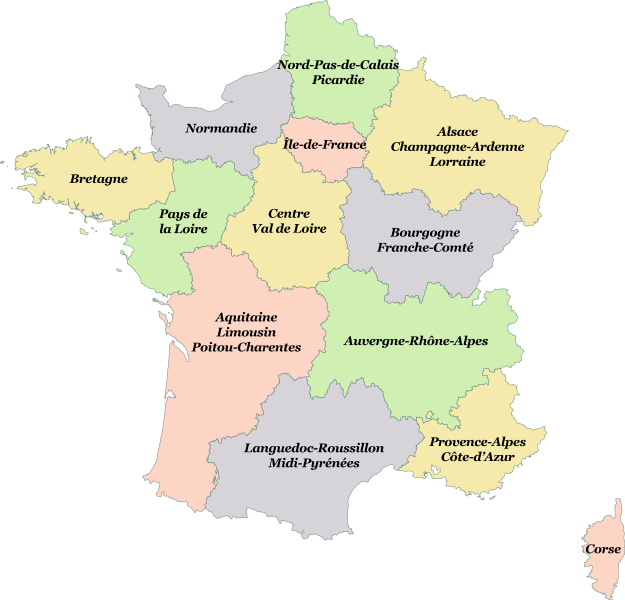
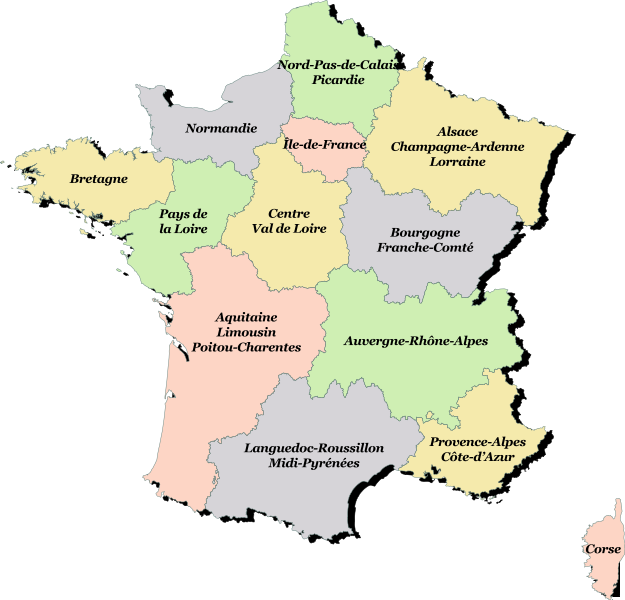
Ajout fond d'écran et ombrage de la carte. Les wiki test s'ouvrent en _blank

diff --git a/src/app/app.component.html b/src/app/app.component.html
@@ -1,19 +1,23 @@
-<h1 class="meteofrance"> Météo France </h1>
+<body class="ciel">
 
-<img src="../assets/France.png" alt="France" usemap="#image-map" class="france">
+  <h1 class="meteofrance"> Météo France </h1>
 
-<map name="image-map">
-  <area target="" alt="Bretagne" title="Bretagne" href="https://fr.wikipedia.org/wiki/Bretagne" coords="27,158,82,146,103,164,124,158,148,157,156,166,166,163,160,195,129,206,116,218,37,191" shape="poly">
-  <area target="" alt="Normandie" title="Normandie" href="https://fr.wikipedia.org/wiki/Normandie" coords="144,91,158,93,168,110,230,108,232,88,276,69,288,109,277,126,269,140,252,148,248,173,235,160,216,161,204,153,157,157" shape="poly">
-  <area target="" alt="Haut de France" title="Haut de France" href="https://fr.wikipedia.org/wiki/Nord-Pas-de-Calais" coords="325,4,291,15,285,61,299,75,296,112,352,118,364,131,371,108,386,102,393,79,393,50" shape="poly">
-  <area target="" alt="Grand Est" title="Grand Est" href="https://fr.wikipedia.org/wiki/Grand_Est" coords="422,59,411,69,402,72,391,106,377,110,368,139,369,148,365,165,377,178,386,192,412,187,423,190,431,204,458,209,471,191,496,193,516,207,524,223,537,217,550,148,564,129" shape="poly">
-  <area target="" alt="Île-de-France" title="Île-de-France" href="https://fr.wikipedia.org/wiki/Île-de-France" coords="291,116,283,127,286,147,300,163,302,170,319,170,325,179,343,178,345,169,361,165,363,138,350,122" shape="poly">
-  <area target="" alt="Val-de-loire" title="Val-de-loire" href="https://fr.wikipedia.org/wiki/Centre-Val_de_Loire" coords="280,138,255,150,258,166,253,172,254,195,244,209,228,218,224,242,232,253,246,250,270,288,312,286,325,276,332,266,344,262,341,233,336,220,338,206,348,190,322,180,304,171,288,154" shape="poly">
-  <area target="" alt="Pays-de-la-loire" title="Pays-de-la-loire" href="https://fr.wikipedia.org/wiki/Pays_de_la_Loire" coords="176,162,204,162,211,161,216,167,228,163,234,170,250,183,248,196,228,212,216,242,183,251,191,290,164,294,122,253,122,238,112,234,114,222,133,214,160,203,175,192" shape="poly">
-  <area target="" alt="Bourgogne" title="Bourgogne" href="https://fr.wikipedia.org/wiki/Bourgogne-Franche-Comté" coords="349,171,368,171,371,182,378,186,384,198,409,196,418,191,430,210,442,216,461,213,466,202,477,194,499,197,516,213,517,231,494,257,481,275,476,286,463,295,454,288,441,282,427,282,420,298,412,293,405,295,402,302,387,298,390,282,372,268,348,267,344,231,342,206,352,191" shape="poly">
-  <area target="" alt="Nouvelle Aquitaine" title="Nouvelle Aquitaine" href="https://fr.wikipedia.org/wiki/Nouvelle-Aquitaine" coords="188,258,220,245,231,258,244,258,267,294,312,289,324,305,320,324,320,347,309,360,304,372,295,377,284,370,260,398,256,413,246,433,207,441,205,461,212,466,215,484,204,509,157,494,156,481,145,478,171,342,151,302,191,298,194,278" shape="poly">
-  <area target="" alt="Auvergne" title="Auvergne" href="https://fr.wikipedia.org/wiki/Auvergne-Rhône-Alpes" coords="320,288,344,268,370,272,384,287,381,302,400,306,406,299,416,299,419,305,428,286,438,286,450,298,475,294,476,305,490,292,508,292,515,322,509,330,522,357,484,370,484,382,451,406,448,414,455,423,444,422,435,412,416,418,393,416,381,384,366,379,350,380,345,387,335,375,323,392,312,392,310,372,324,357,328,322,330,304" shape="poly">
-  <area target="" alt="Provence" title="Provence" href="https://fr.wikipedia.org/wiki/Provence-Alpes-Côte_d%27Azur" coords="489,373,501,369,508,383,515,383,519,394,512,418,544,426,540,450,500,487,467,494,440,482,401,468,415,456,423,437,418,420,435,420,451,430,460,427,453,412,472,394,485,385" shape="poly">
-  <area target="" alt="Occitanie" title="Occitanie" href="https://fr.wikipedia.org/wiki/Occitanie_(région_administrative)" coords="283,376,304,381,308,400,326,398,334,382,344,398,356,382,363,383,380,392,388,422,412,421,418,436,409,457,396,469,352,494,355,531,312,545,251,513,238,525,209,512,220,477,210,458,218,442,246,438,264,406" shape="poly">
-  <area target="" alt="Corse" title="Corse" href="https://fr.wikipedia.org/wiki/Corse" coords="619,499,608,511,580,534,590,593,616,599,624,555,624,525" shape="poly">
-</map>
+  <img src="../assets/France.png" alt="France" usemap="#image-map" class="france">
+
+  <map name="image-map">
+    <area target="" alt="Bretagne" title="Bretagne" href="https://fr.wikipedia.org/wiki/Bretagne" target="_blank" coords="27,158,82,146,103,164,124,158,148,157,156,166,166,163,160,195,129,206,116,218,37,191" shape="poly">
+    <area target="" alt="Normandie" title="Normandie" href="https://fr.wikipedia.org/wiki/Normandie" target="_blank" coords="144,91,158,93,168,110,230,108,232,88,276,69,288,109,277,126,269,140,252,148,248,173,235,160,216,161,204,153,157,157" shape="poly">
+    <area target="" alt="Haut de France" title="Haut de France" href="https://fr.wikipedia.org/wiki/Nord-Pas-de-Calais" target="_blank" coords="325,4,291,15,285,61,299,75,296,112,352,118,364,131,371,108,386,102,393,79,393,50" shape="poly">
+    <area target="" alt="Grand Est" title="Grand Est" href="https://fr.wikipedia.org/wiki/Grand_Est" target="_blank" coords="422,59,411,69,402,72,391,106,377,110,368,139,369,148,365,165,377,178,386,192,412,187,423,190,431,204,458,209,471,191,496,193,516,207,524,223,537,217,550,148,564,129" shape="poly">
+    <area target="" alt="Île-de-France" title="Île-de-France" href="https://fr.wikipedia.org/wiki/Île-de-France" target="_blank" coords="291,116,283,127,286,147,300,163,302,170,319,170,325,179,343,178,345,169,361,165,363,138,350,122" shape="poly">
+    <area target="" alt="Val-de-loire" title="Val-de-loire" href="https://fr.wikipedia.org/wiki/Centre-Val_de_Loire" target="_blank" coords="280,138,255,150,258,166,253,172,254,195,244,209,228,218,224,242,232,253,246,250,270,288,312,286,325,276,332,266,344,262,341,233,336,220,338,206,348,190,322,180,304,171,288,154" shape="poly">
+    <area target="" alt="Pays-de-la-loire" title="Pays-de-la-loire" href="https://fr.wikipedia.org/wiki/Pays_de_la_Loire" target="_blank" coords="176,162,204,162,211,161,216,167,228,163,234,170,250,183,248,196,228,212,216,242,183,251,191,290,164,294,122,253,122,238,112,234,114,222,133,214,160,203,175,192" shape="poly">
+    <area target="" alt="Bourgogne" title="Bourgogne" href="https://fr.wikipedia.org/wiki/Bourgogne-Franche-Comté" target="_blank" coords="349,171,368,171,371,182,378,186,384,198,409,196,418,191,430,210,442,216,461,213,466,202,477,194,499,197,516,213,517,231,494,257,481,275,476,286,463,295,454,288,441,282,427,282,420,298,412,293,405,295,402,302,387,298,390,282,372,268,348,267,344,231,342,206,352,191" shape="poly">
+    <area target="" alt="Nouvelle Aquitaine" title="Nouvelle Aquitaine" href="https://fr.wikipedia.org/wiki/Nouvelle-Aquitaine" target="_blank" coords="188,258,220,245,231,258,244,258,267,294,312,289,324,305,320,324,320,347,309,360,304,372,295,377,284,370,260,398,256,413,246,433,207,441,205,461,212,466,215,484,204,509,157,494,156,481,145,478,171,342,151,302,191,298,194,278" shape="poly">
+    <area target="" alt="Auvergne" title="Auvergne" href="https://fr.wikipedia.org/wiki/Auvergne-Rhône-Alpes" target="_blank" coords="320,288,344,268,370,272,384,287,381,302,400,306,406,299,416,299,419,305,428,286,438,286,450,298,475,294,476,305,490,292,508,292,515,322,509,330,522,357,484,370,484,382,451,406,448,414,455,423,444,422,435,412,416,418,393,416,381,384,366,379,350,380,345,387,335,375,323,392,312,392,310,372,324,357,328,322,330,304" shape="poly">
+    <area target="" alt="Provence" title="Provence" href="https://fr.wikipedia.org/wiki/Provence-Alpes-Côte_d%27Azur" target="_blank" coords="489,373,501,369,508,383,515,383,519,394,512,418,544,426,540,450,500,487,467,494,440,482,401,468,415,456,423,437,418,420,435,420,451,430,460,427,453,412,472,394,485,385" shape="poly">
+    <area target="" alt="Occitanie" title="Occitanie" href="https://fr.wikipedia.org/wiki/Occitanie_(région_administrative)" target="_blank" coords="283,376,304,381,308,400,326,398,334,382,344,398,356,382,363,383,380,392,388,422,412,421,418,436,409,457,396,469,352,494,355,531,312,545,251,513,238,525,209,512,220,477,210,458,218,442,246,438,264,406" shape="poly">
+    <area target="" alt="Corse" title="Corse" href="https://fr.wikipedia.org/wiki/Corse" coords="619,499,608,511,580,534,590,593,616,599,624,555,624,525" shape="poly">
+  </map>
+
+</body>

diff --git a/src/app/app.component.css b/src/app/app.component.css
@@ -10,3 +10,7 @@
     width:625;
     height:600;
   }
+
+.ciel {
+    background-image: url("../assets/ciel.jpg");
+  }
